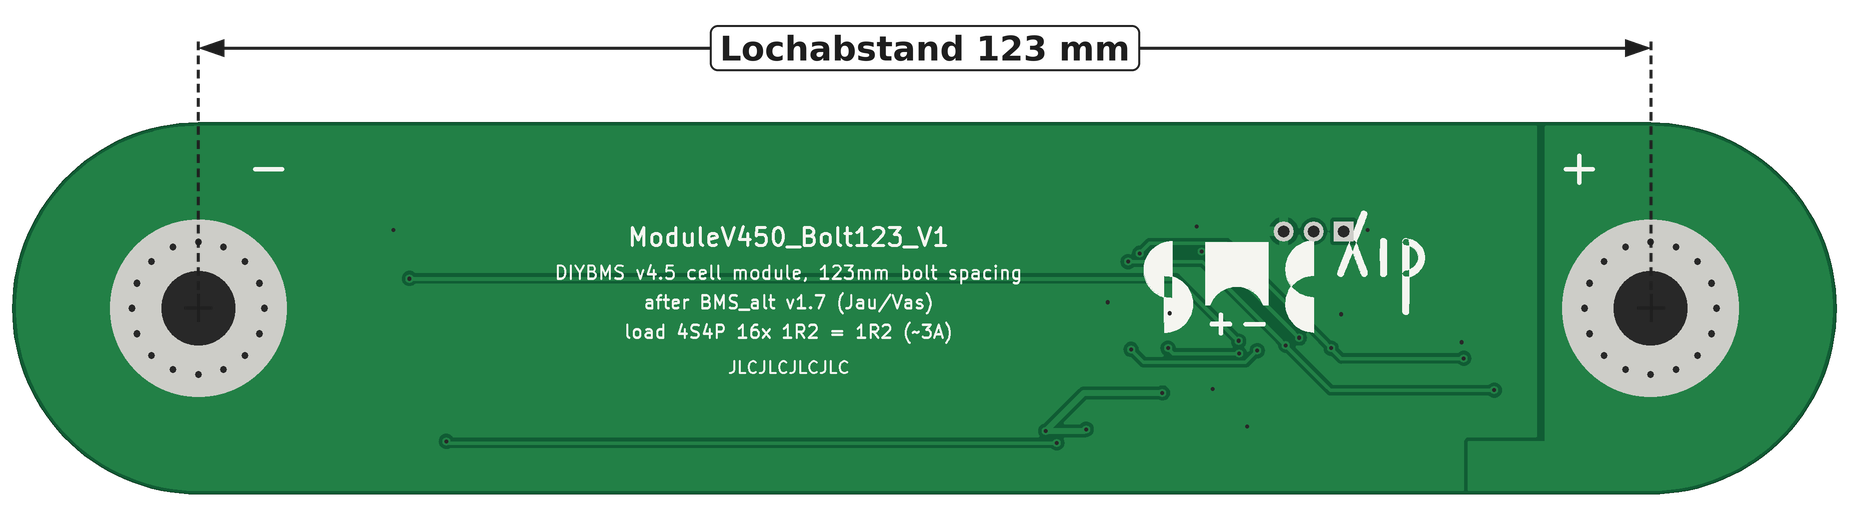
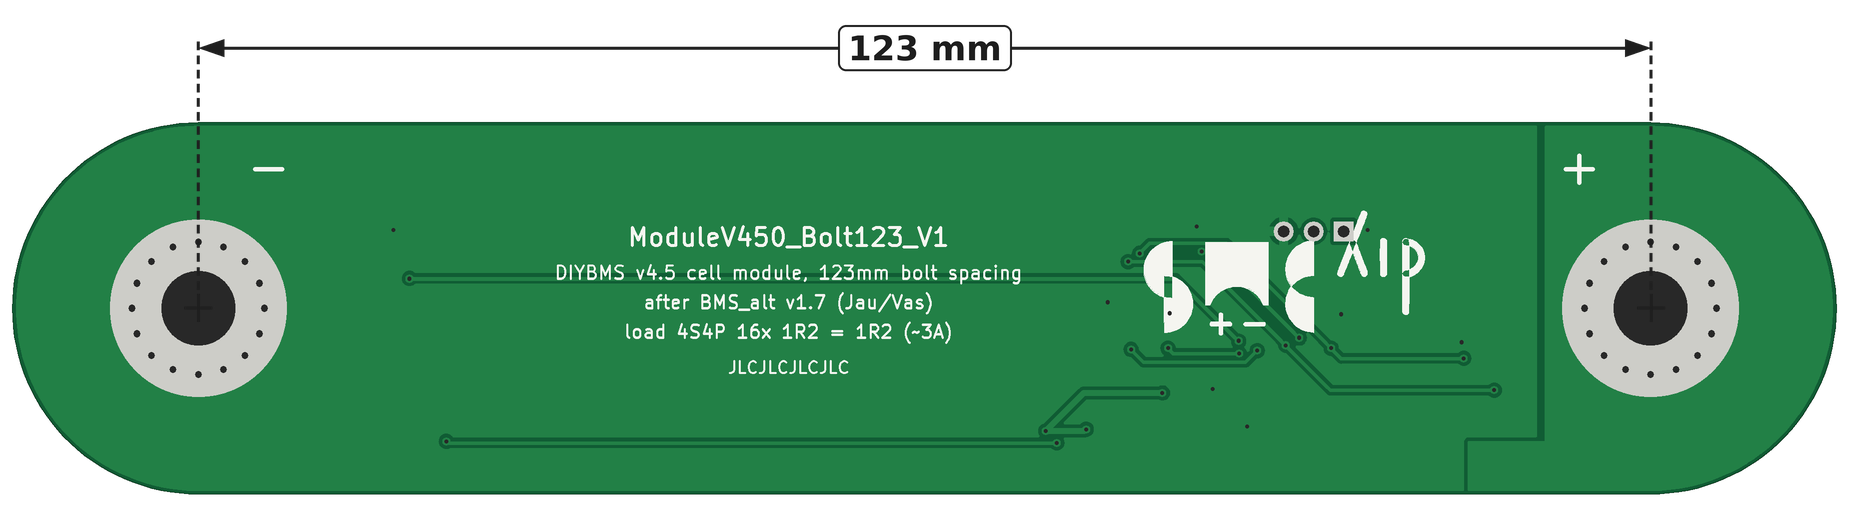
Preview images: dimension label as plain number ("89 mm" / "123 mm")
Claude-Session: https://claude.ai/code/session_01SqYaZD5MyB12zL6XbmoSpE

Changed region(s): [[0.3699, 0.0296, 0.6165, 0.1479]]

diff --git a/ModuleV450_Bolt123_V1/scripts/dimension.py b/ModuleV450_Bolt123_V1/scripts/dimension.py
@@ -81,7 +81,7 @@ def annotate_render(src, dst, pitch_mm, side='top', dpi=300, margin_mm=1.0, half
     yc = (half_mm + margin_mm) * s + pad_top
     canvas = Image.new('RGB', (W, H + pad_top), (255, 255, 255))
     canvas.paste(im, (0, pad_top))
-    out = dimension(canvas, (xa, yc), (xb, yc), -(yc - 48), 'Lochabstand %g mm' % pitch_mm)
+    out = dimension(canvas, (xa, yc), (xb, yc), -(yc - 48), '%g mm' % pitch_mm)
     out.save(dst)
 
 

diff --git a/ModuleV450_Bolt89/scripts/dimension.py b/ModuleV450_Bolt89/scripts/dimension.py
@@ -81,7 +81,7 @@ def annotate_render(src, dst, pitch_mm, side='top', dpi=300, margin_mm=1.0, half
     yc = (half_mm + margin_mm) * s + pad_top
     canvas = Image.new('RGB', (W, H + pad_top), (255, 255, 255))
     canvas.paste(im, (0, pad_top))
-    out = dimension(canvas, (xa, yc), (xb, yc), -(yc - 48), 'Lochabstand %g mm' % pitch_mm)
+    out = dimension(canvas, (xa, yc), (xb, yc), -(yc - 48), '%g mm' % pitch_mm)
     out.save(dst)
 
 
